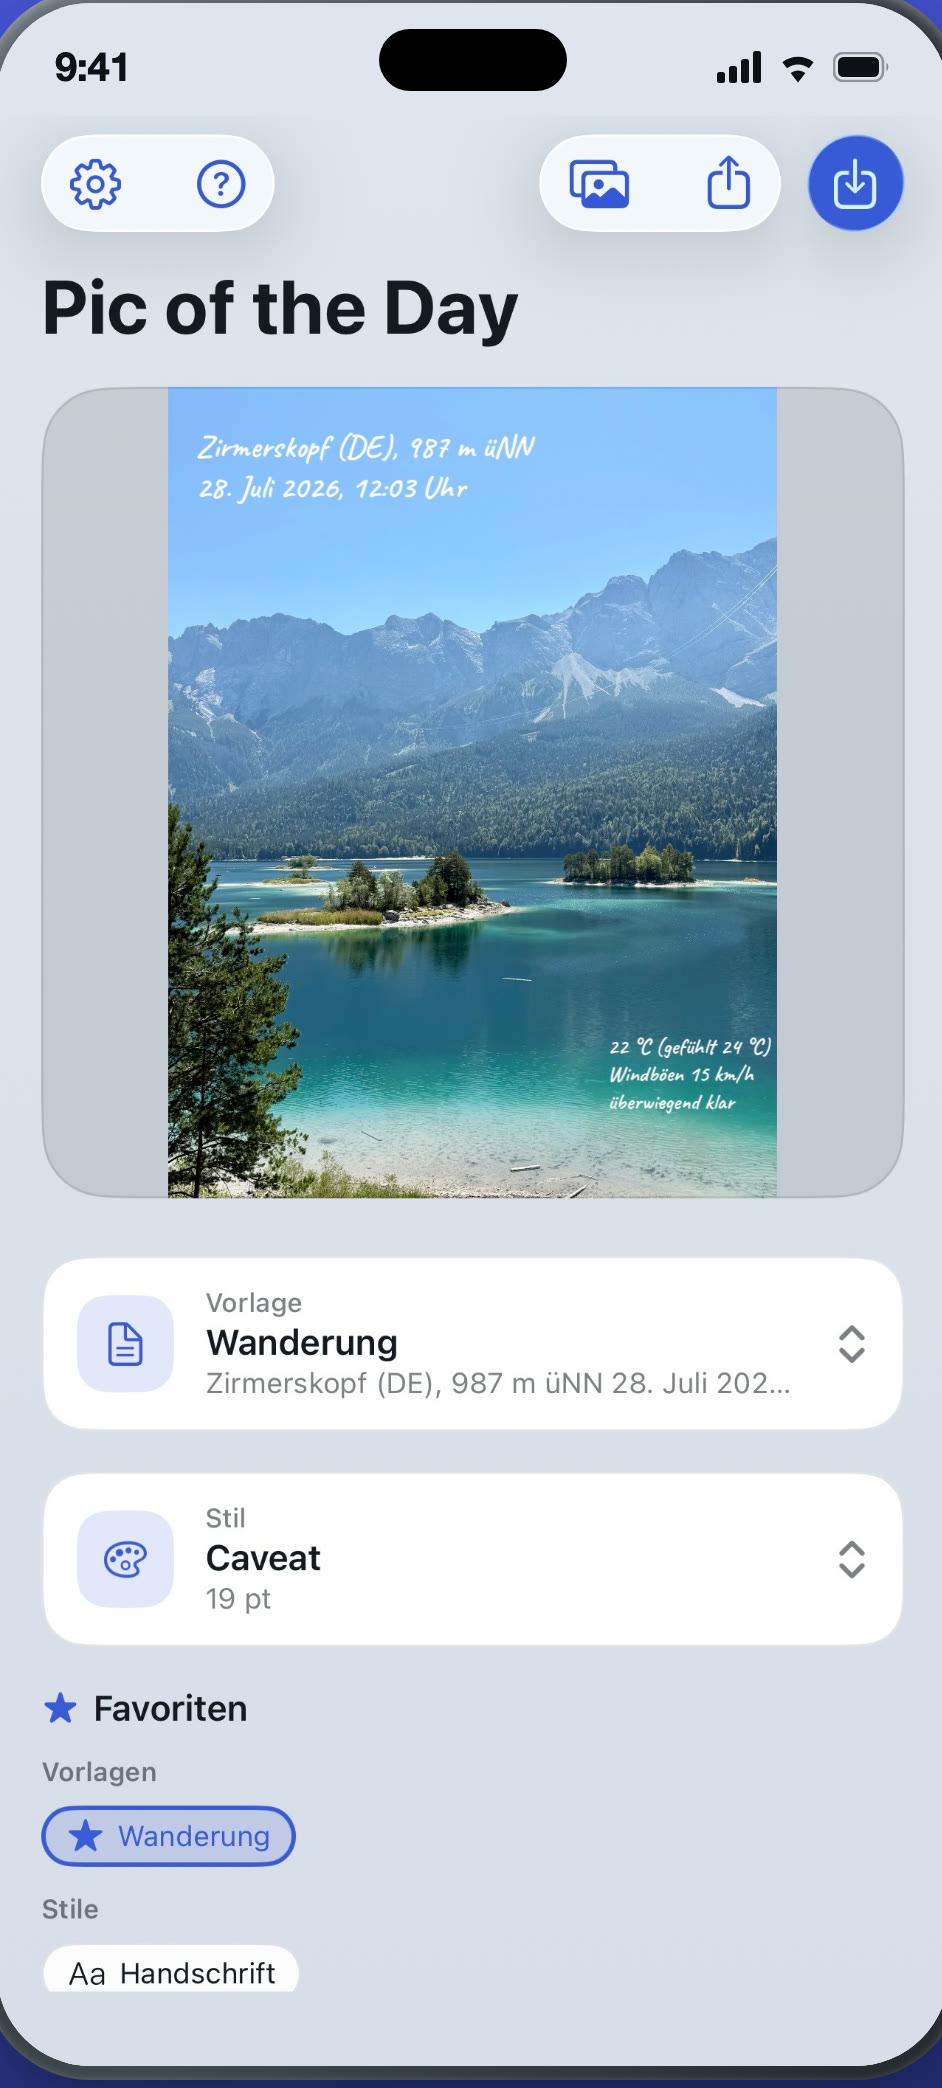
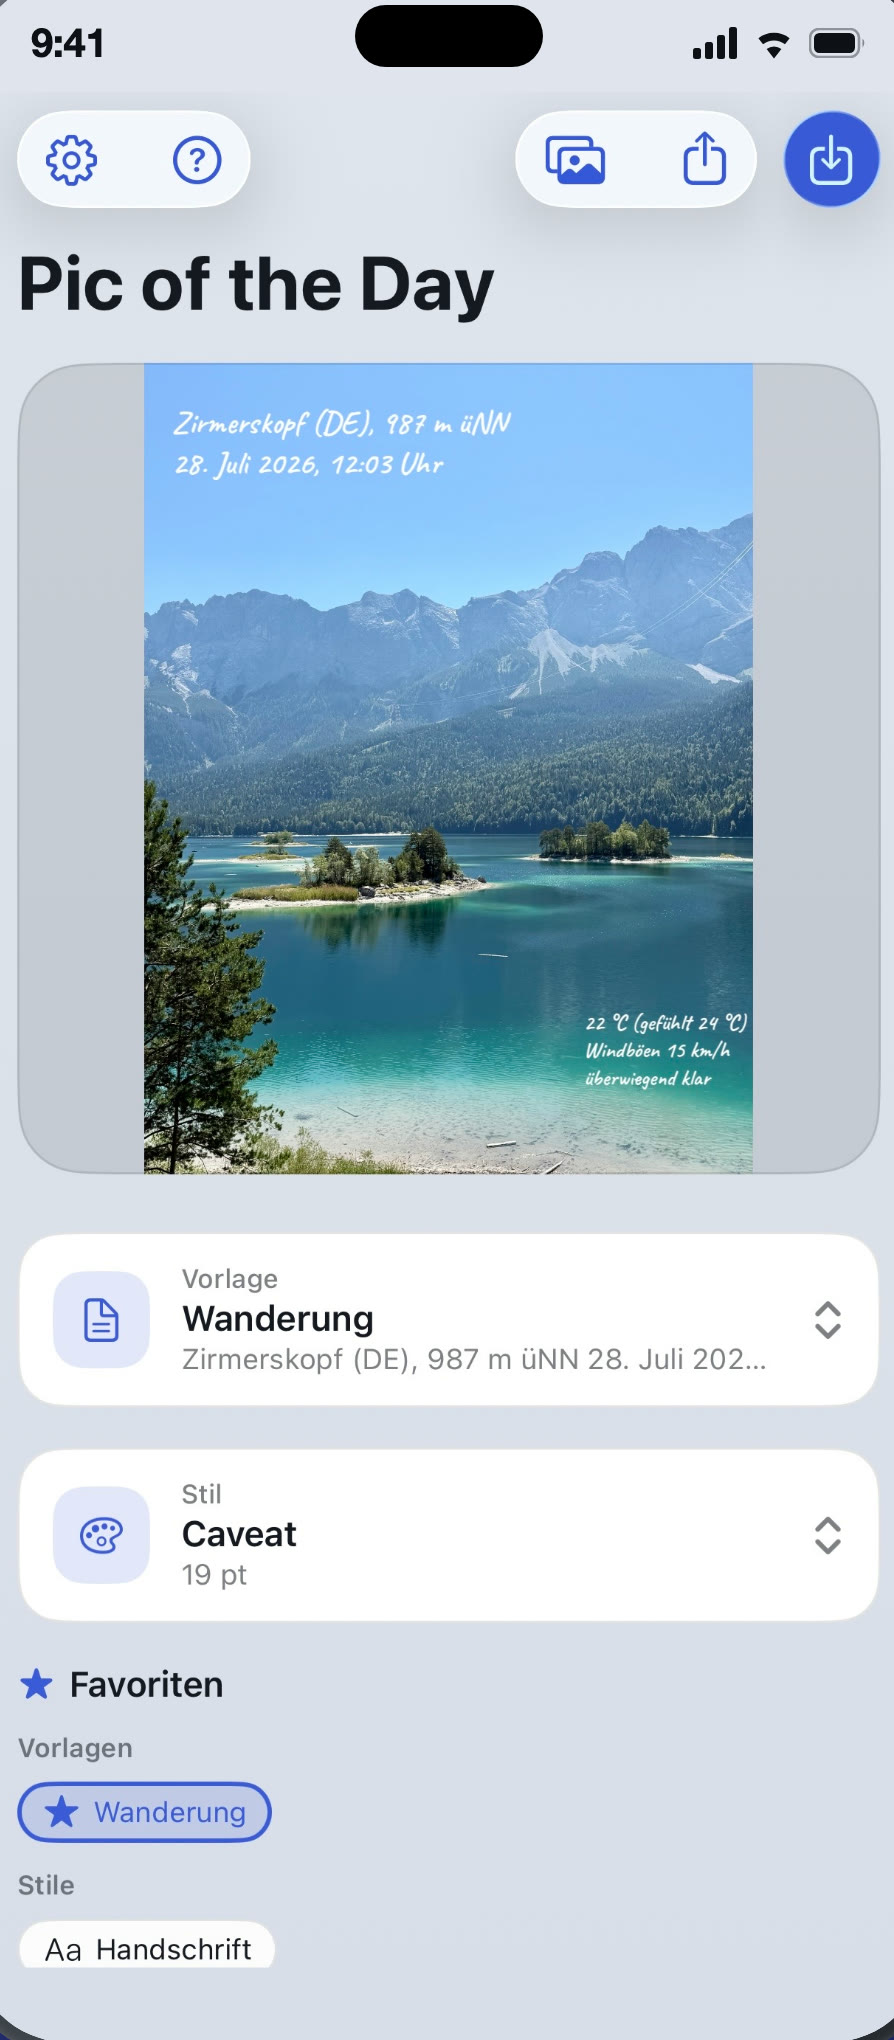
Hero: Bezel mit weggeschnitten, nur noch die Bildschirmflaeche
Crop enger gesetzt (894x2040, 24px innerhalb des Rahmens) - die dunklen
Streifen oben/unten waren der Geraeterahmen.

diff --git a/en/index.html b/en/index.html
@@ -49,7 +49,7 @@
     </p>
   </div>
   <div class="phone">
-    <img class="shot" src="../assets/img/hero-device-en.jpg" width="942" height="2088"
+    <img class="shot" src="../assets/img/hero-device-en.jpg" width="894" height="2040"
          alt="iPhone showing the POTD main screen, a mountain lake photo captioned with peak, altitude, date and weather">
   </div>
   <div class="hero-extra">

diff --git a/index.html b/index.html
@@ -49,7 +49,7 @@
     </p>
   </div>
   <div class="phone">
-    <img class="shot" src="assets/img/hero-device-de.jpg" width="942" height="2088"
+    <img class="shot" src="assets/img/hero-device-de.jpg" width="894" height="2040"
          alt="iPhone mit dem POTD-Hauptbildschirm, ein Bergsee-Foto, beschriftet mit Gipfel, Höhe, Datum und Wetter">
   </div>
   <div class="hero-extra">

diff --git a/README.md b/README.md
@@ -31,9 +31,9 @@ Layout baut daraus den Link auf die andere Sprache. Die Landing Pages verlinken 
   (`AppTheme` in `potd/ModernDesign.swift`).
 - `assets/img/hero-device-de.jpg` / `hero-device-en.jpg` - Hero-Bild: nur das Gerät aus dem
   App-Store-Framer-Export (`~/personal/apps/potd_images/framed/6.9-zoll/{de,en}/01.png`,
-  ffmpeg-Crop `942:2088:187:626`), ohne den blauen Marketing-Rahmen. Der `border-radius`
-  auf `.shot` (44px, mobil 38px) liegt knapp über der echten Geräterundung und schneidet
-  die blauen Eck-Reste weg.
+  ffmpeg-Crop `894:2040:211:650`, nur die Bildschirmflaeche ohne Bezel). Der `border-radius`
+  auf `.shot` (44px, mobil 38px) liegt knapp über der Display-Rundung und schneidet
+  die dunklen Bezel-Reste in den Ecken weg.
 - `assets/img/app-store-badge-{de,en}.svg` - offizielle Apple-Badges ("Laden im App Store" /
   "Download on the App Store", schwarz), geladen von tools.applemediaservices.com; ersetzen
   die eigenen Pill-Buttons in Hero und Abschluss-CTA (der Nav-Button bleibt Text).
